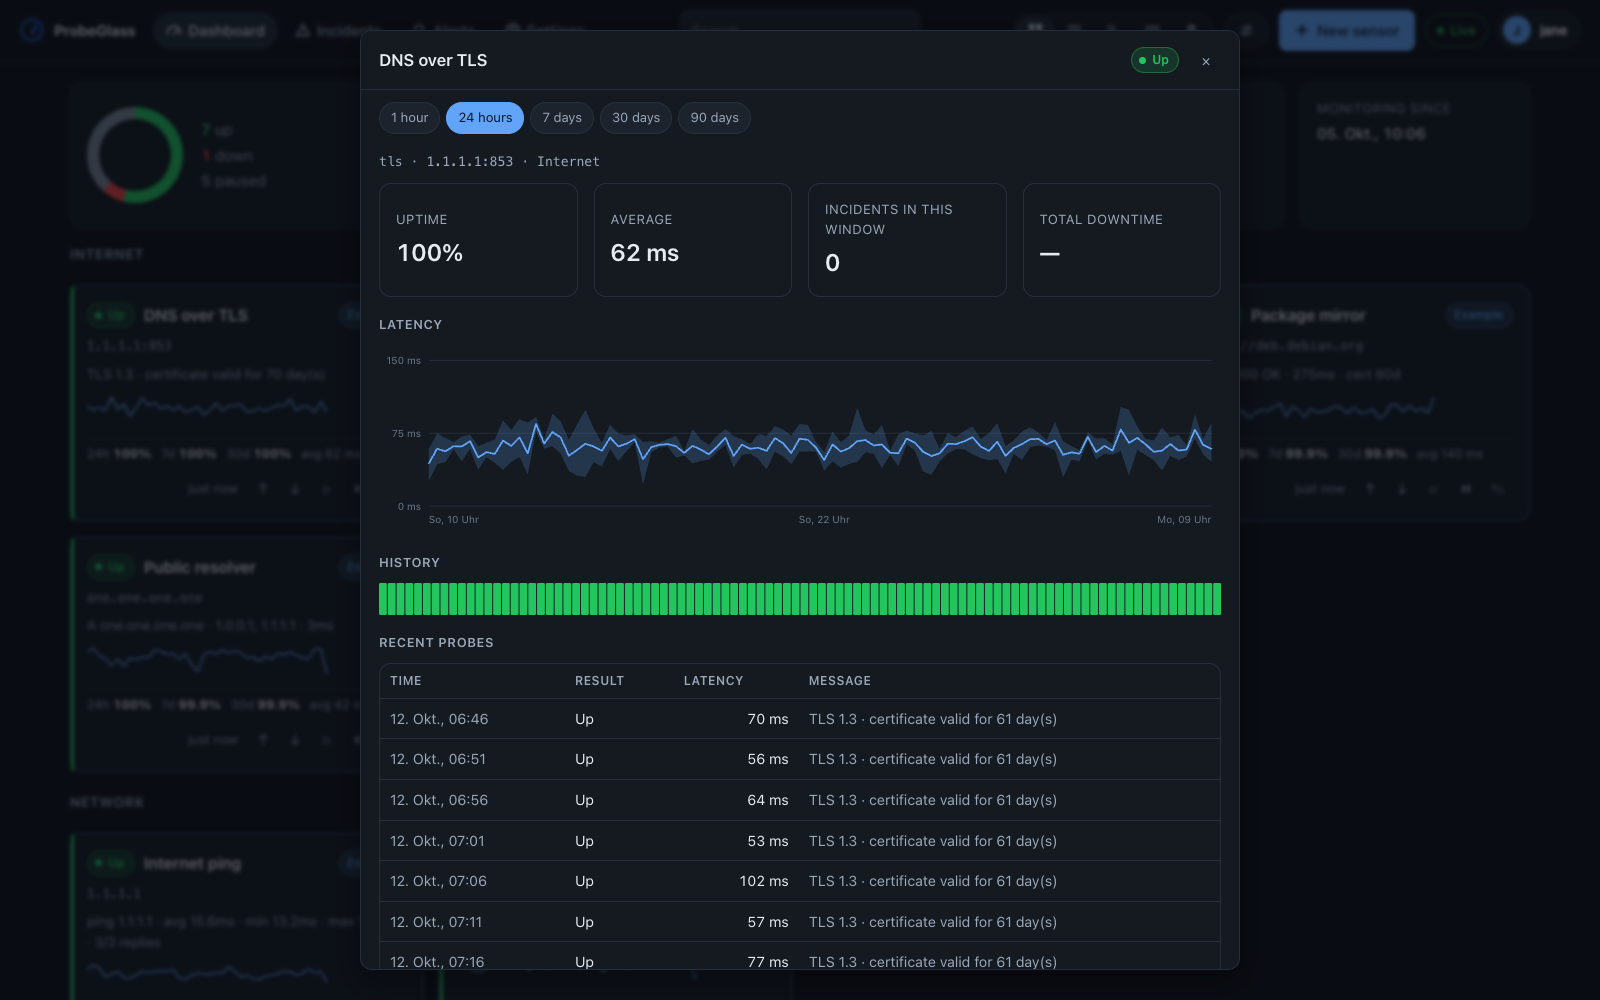
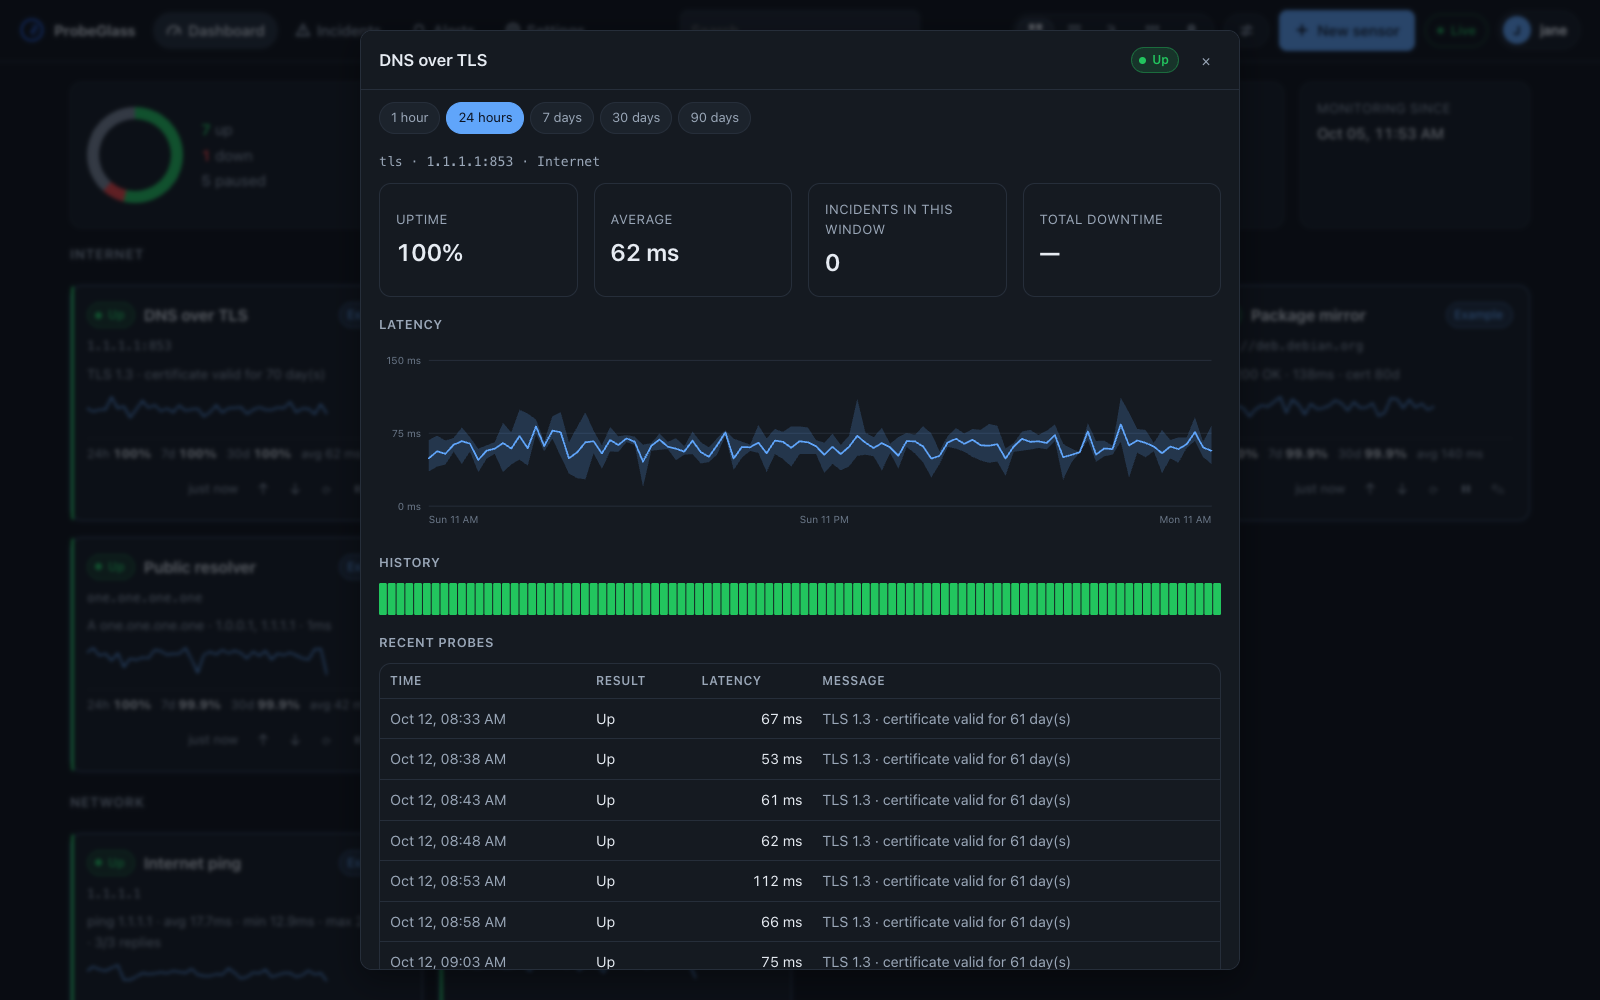
docs: the language setting is a real choice now, and the pictures show it
`ui.language` takes `en` and `de`, the switch names each language in its own
language, and the choice covers dates and numbers as well as words. Three
surfaces stay English on purpose: the watchdog page, `doctor`, and the channel
types and recipes the server sends as its own text.

The screenshots are regenerated against the current interface, so the settings
panel and the account menu are pictures of the picker that now exists rather
than of the release before it.

diff --git a/docs/configuration/dashboard.md b/docs/configuration/dashboard.md
@@ -24,7 +24,7 @@ same time.
 | `ui.accent` | `azure`, `violet`, `emerald`, `amber`, `rose`, `slate` | `azure` |
 | `ui.density` | `compact`, `comfortable` | `comfortable` |
 | `ui.layout` | `grid`, `list`, `tree`, `wall`, `map` | `grid` |
-| `ui.language` | `en` | `en` |
+| `ui.language` | `en`, `de` | `en` |
 | `ui.live` | `on`, `off` | `on` |
 | `ui.widgets` | a comma-separated list of widget names | `status,uptime,latency,probes,since` |
 
@@ -39,10 +39,15 @@ same time.
   forty sensors, it roughly doubles how many fit on a screen.
 - **Layout** — which of the five views the dashboard is drawn in. See
   [Views](#views).
-- **Language** — English is the only catalogue so far. Adding another is a
-  dictionary in `i18n.js` and one entry in the allowed list; the markup contains
-  no user-facing strings, so nothing else changes. See the
-  [roadmap](/development/roadmap).
+- **Language** — every word the dashboard draws comes out of a message catalogue,
+  so a language is a dictionary file and one entry in the list of languages the
+  interface offers, and no code at all. English and German ship today. Each
+  language is named in its own language in the list — **Deutsch**, not "German" —
+  because the reader who needs that entry is the one who cannot read the rest of
+  the list. The choice covers the whole interface, not only its words: dates and
+  numbers are written in it too. A word missing from a dictionary falls back to
+  English rather than to a blank. See the [roadmap](/development/roadmap) for the
+  next dictionaries.
 - **Live** — whether the dashboard subscribes to the event stream at all. See
   [Live updates](#live).
 

diff --git a/docs/development/roadmap.md b/docs/development/roadmap.md
@@ -130,13 +130,19 @@ is the source of truth — this page mirrors it.
   actually asked. See [Getting the
   credentials](/concepts/alerts#getting-the-credentials).
 
+- **A second interface language.** German joins English — since the 0.1.0 tag, so it
+  ships with 0.2.0. The dictionary is a file
+  beside the English one — same keys, same order, same placeholders, held there by a
+  test — and one entry in the two lists that say what the interface offers, so the
+  next language is no code at all. The switch is in Settings and in the account menu,
+  and it covers dates and numbers as well as words. Three surfaces stay English on
+  purpose: the [watchdog page](/operations/troubleshooting#the-dashboard-will-not-load),
+  `doctor`, and the channel types and recipes the server sends as its own text.
+
 ## Next — 0.2.x
 
 Ordered by value per unit of work.
 
-- **More languages.** The UI is built on a message catalogue; the next dictionaries
-  (starting with German) are a translation file and a picker entry. This is the first
-  frontend item because the scaffolding is already there and waiting.
 - **More sensor types.** SSH banner, SMTP/IMAP greeting, UDP port, an ICMP TTL/hop
   sensor, and an HTTP sensor that follows a redirect chain and reports what it found.
   Each is one file in `internal/sensor`.
